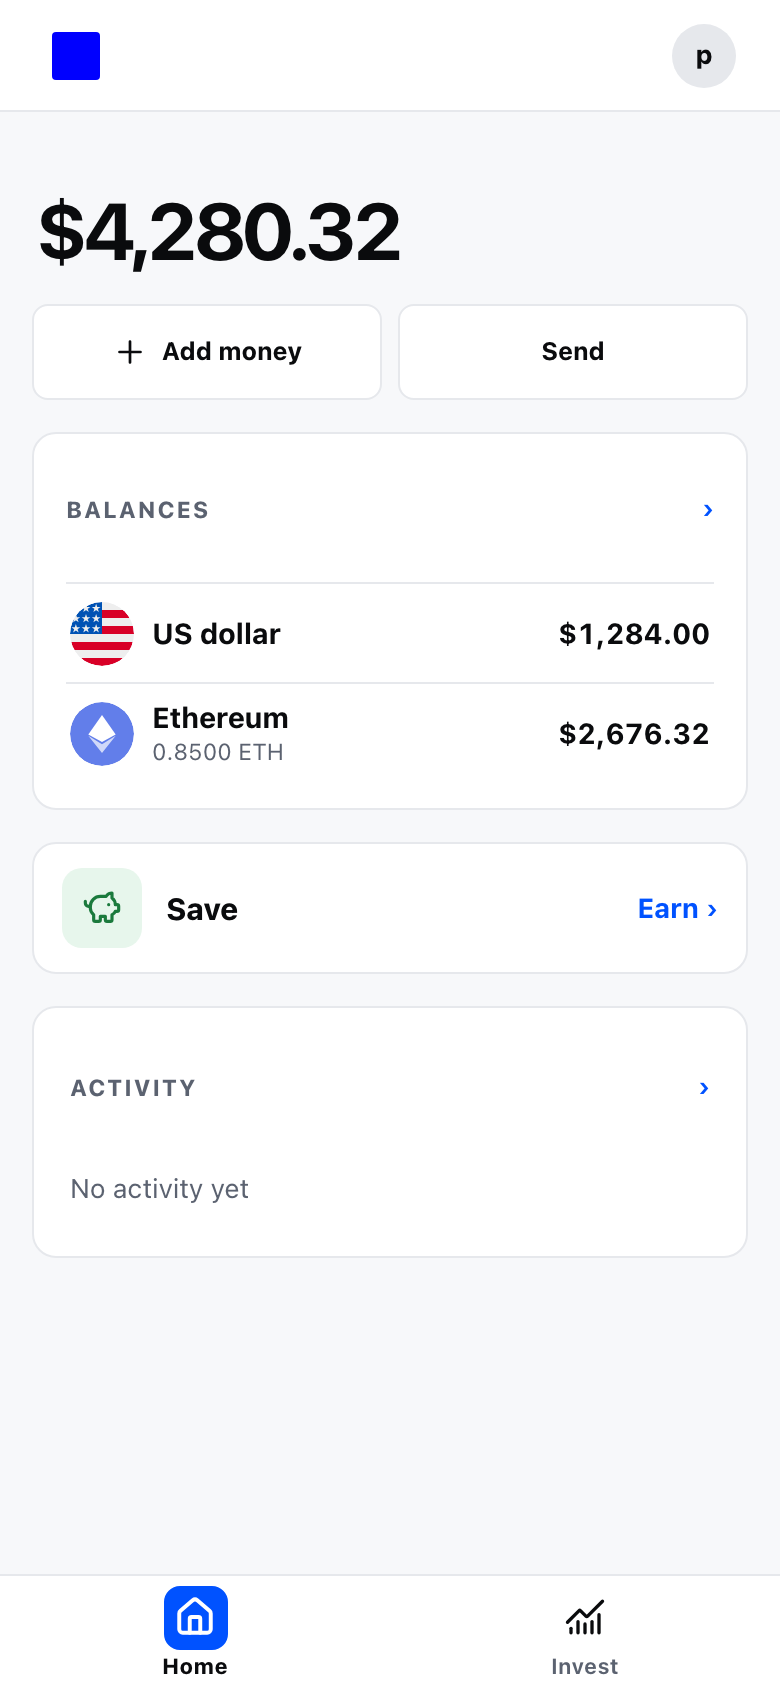
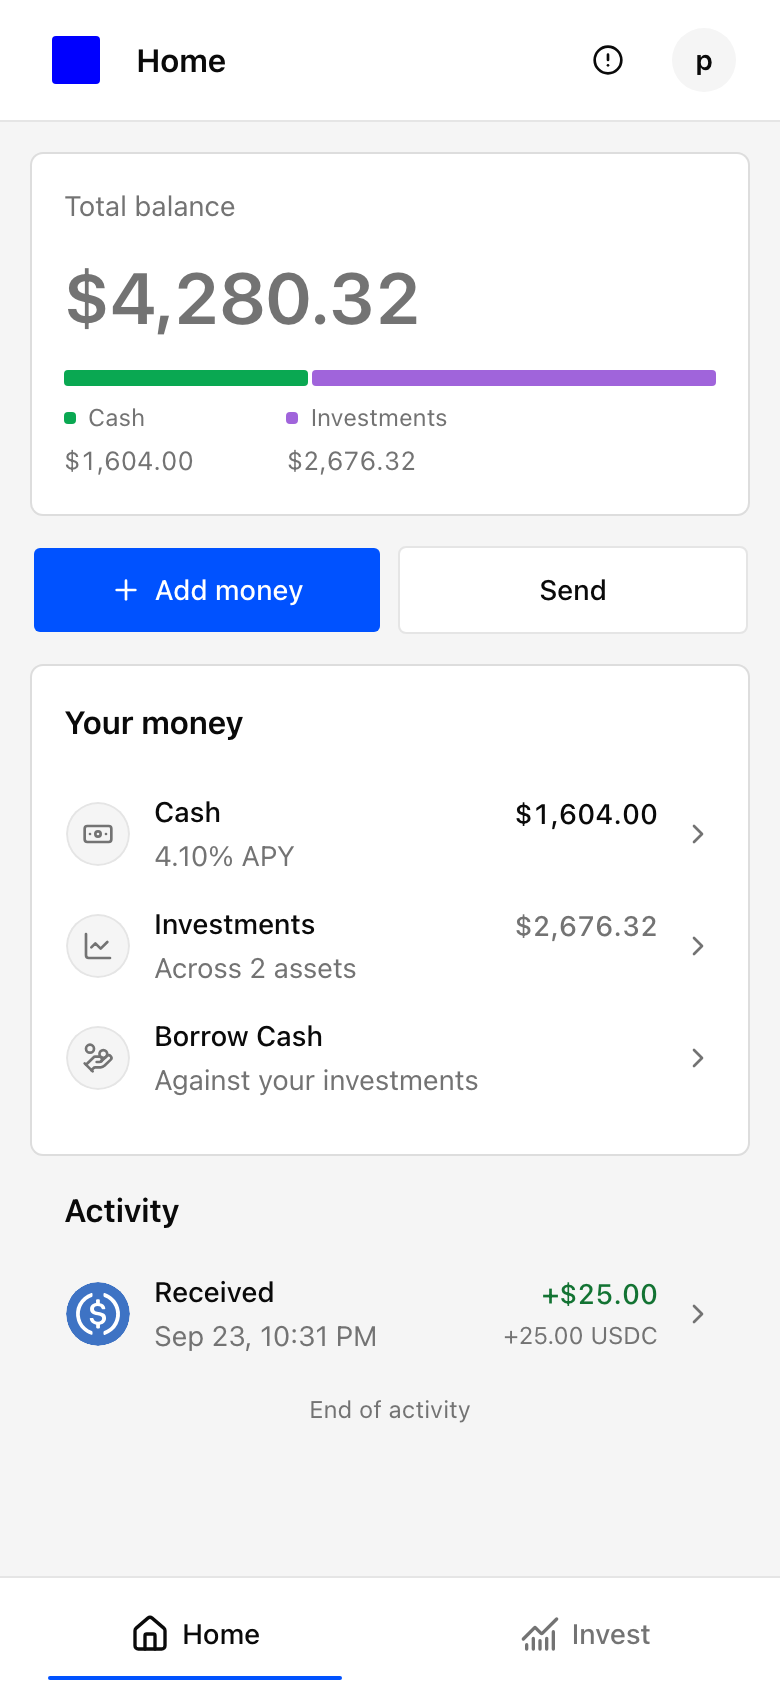
fix(activity): expire provisional FX at midnight UTC and version the README activity fixture
Caught-by: review

diff --git a/docs/readme/capture.ts b/docs/readme/capture.ts
@@ -15,6 +15,7 @@ import {
   pricedCash,
   ready,
 } from "../../apps/web/shared/balances/fixtures";
+import { ACTIVITY_CONTRACT_VERSION } from "../../apps/web/shared/activity/contract";
 
 const captureUrl = new URL(process.env.HOME_CAPTURE_BASE_URL ?? "http://localhost:3199");
 if (captureUrl.protocol !== "http:" || !["localhost", "127.0.0.1"].includes(captureUrl.hostname)) {
@@ -206,9 +207,24 @@ async function installFixtures(context: BrowserContext) {
     if (path === "/api/activity") {
       const to = requestUrl.searchParams.get("to") ?? now();
       const from = new Date(Date.parse(to) - 31 * 24 * 60 * 60 * 1_000).toISOString();
+      const currency = requestUrl.searchParams.get("currency") ?? "USD";
       return json(route, {
+        version: ACTIVITY_CONTRACT_VERSION,
         walletAddress: OWNER, chainId: 8453, recordedOperations: "available",
-        window: { from, to }, currency: requestUrl.searchParams.get("currency") ?? "USD", transfers: [], nextCursor: null,
+        window: { from, to }, currency,
+        transfers: [{
+          id: `8453:${USDC}:readme-received`, logId: "readme-received", chainId: 8453,
+          assetId: "usdc", tokenAddress: USDC, tokenSymbol: "USDC", tokenDecimals: 6,
+          walletAddress: OWNER, fromAddress: "0x2222222222222222222222222222222222222222",
+          toAddress: OWNER, direction: "incoming", amountBaseUnits: "25000000",
+          blockNumber: "1", blockHash: `0x${"ef".repeat(32)}`,
+          transactionHash: `0x${"12".repeat(32)}`, logIndex: "1",
+          blockTimestamp: new Date(Date.parse(to) - 60 * 60_000).toISOString(),
+          valuation: currency === "USD"
+            ? { status: "priced", currency, amount: { atoms: "25000000000000000000", scale: 18 }, method: "peg", peg: "USD", close: null, fx: null }
+            : { status: "unpriced", currency, reason: "fx-unavailable" },
+        }],
+        nextCursor: null,
         source: { provider: "cdp-sql", cached: false, stale: false, executionTimestamp: to, executionTimeMs: 1, fetchedAt: to },
       });
     }
@@ -284,7 +300,8 @@ try {
 
   await page.goto(`${BASE_URL}/home`);
   await page.getByText("$4,280.32", { exact: true }).waitFor();
-  await page.getByText("$2,676.32", { exact: true }).waitFor();
+  await page.getByText("$2,676.32", { exact: true }).first().waitFor();
+  await page.getByRole("region", { name: "Activity" }).getByText("Received", { exact: true }).waitFor({ state: "visible" });
   await page.waitForTimeout(1_000);
   await capture(page, "home.png");
 

diff --git a/apps/web/server/activity/valuation/coinbase-daily-fx.test.ts b/apps/web/server/activity/valuation/coinbase-daily-fx.test.ts
@@ -77,6 +77,38 @@ describe("Coinbase daily FX reader", () => {
     expect(calls).toBe(2);
   });
 
+  test("refreshes a provisional rate at UTC midnight while retaining completed-day cache entries", async () => {
+    let nowMs = Date.parse("2026-09-10T23:59:30.000Z");
+    let calls = 0;
+    const reader = createCoinbaseDailyFxReader({
+      now: () => new Date(nowMs),
+      fetchImpl: (async () => {
+        calls += 1;
+        return rateResponse("USD", "EUR", calls === 3 ? "0.87" : "0.86");
+      }),
+    });
+    const provisional = { base: "USD", quote: "EUR", date: "2026-09-10" } as const;
+    const completed = { base: "USD", quote: "EUR", date: "2026-09-09" } as const;
+
+    const beforeMidnight = await reader([provisional, completed]);
+    expect(beforeMidnight.get(dailyFxKey(provisional))?.provisional).toBe(true);
+    expect(beforeMidnight.get(dailyFxKey(completed))?.provisional).toBe(false);
+    expect(calls).toBe(2);
+
+    nowMs = Date.parse("2026-09-11T00:00:10.000Z");
+    const afterMidnight = await reader([provisional, completed]);
+    expect(afterMidnight.get(dailyFxKey(provisional))).toEqual({
+      rate: { atoms: "87", scale: 2 },
+      provisional: false,
+    });
+    expect(afterMidnight.get(dailyFxKey(completed))).toEqual(
+      beforeMidnight.get(dailyFxKey(completed)),
+    );
+    expect(calls).toBe(3);
+    expect((await reader([provisional, completed])).get(dailyFxKey(provisional))?.provisional).toBe(false);
+    expect(calls).toBe(3);
+  });
+
   test("returns no rate for mismatched payloads, failures, and future dates", async () => {
     const reader = createCoinbaseDailyFxReader({
       now: () => new Date("2026-09-10T12:00:00.000Z"),

diff --git a/apps/web/server/activity/valuation/coinbase-daily-fx.ts b/apps/web/server/activity/valuation/coinbase-daily-fx.ts
@@ -61,9 +61,14 @@ export function createCoinbaseDailyFxReader(options: {
     const results = new Map<string, DailyFxResult>();
     const missing: [string, DailyFxRequest][] = [];
     const currentMs = now().getTime();
+    const currentDate = new Date(currentMs).toISOString().slice(0, 10);
     for (const [key, request] of unique) {
       const cached = cache.get(key);
-      if (cached && currentMs - cached.storedAt <= cached.ttlMs) {
+      if (
+        cached &&
+        currentMs - cached.storedAt <= cached.ttlMs &&
+        !(cached.value.provisional && request.date < currentDate)
+      ) {
         results.set(key, cached.value);
       } else {
         missing.push([key, request]);
